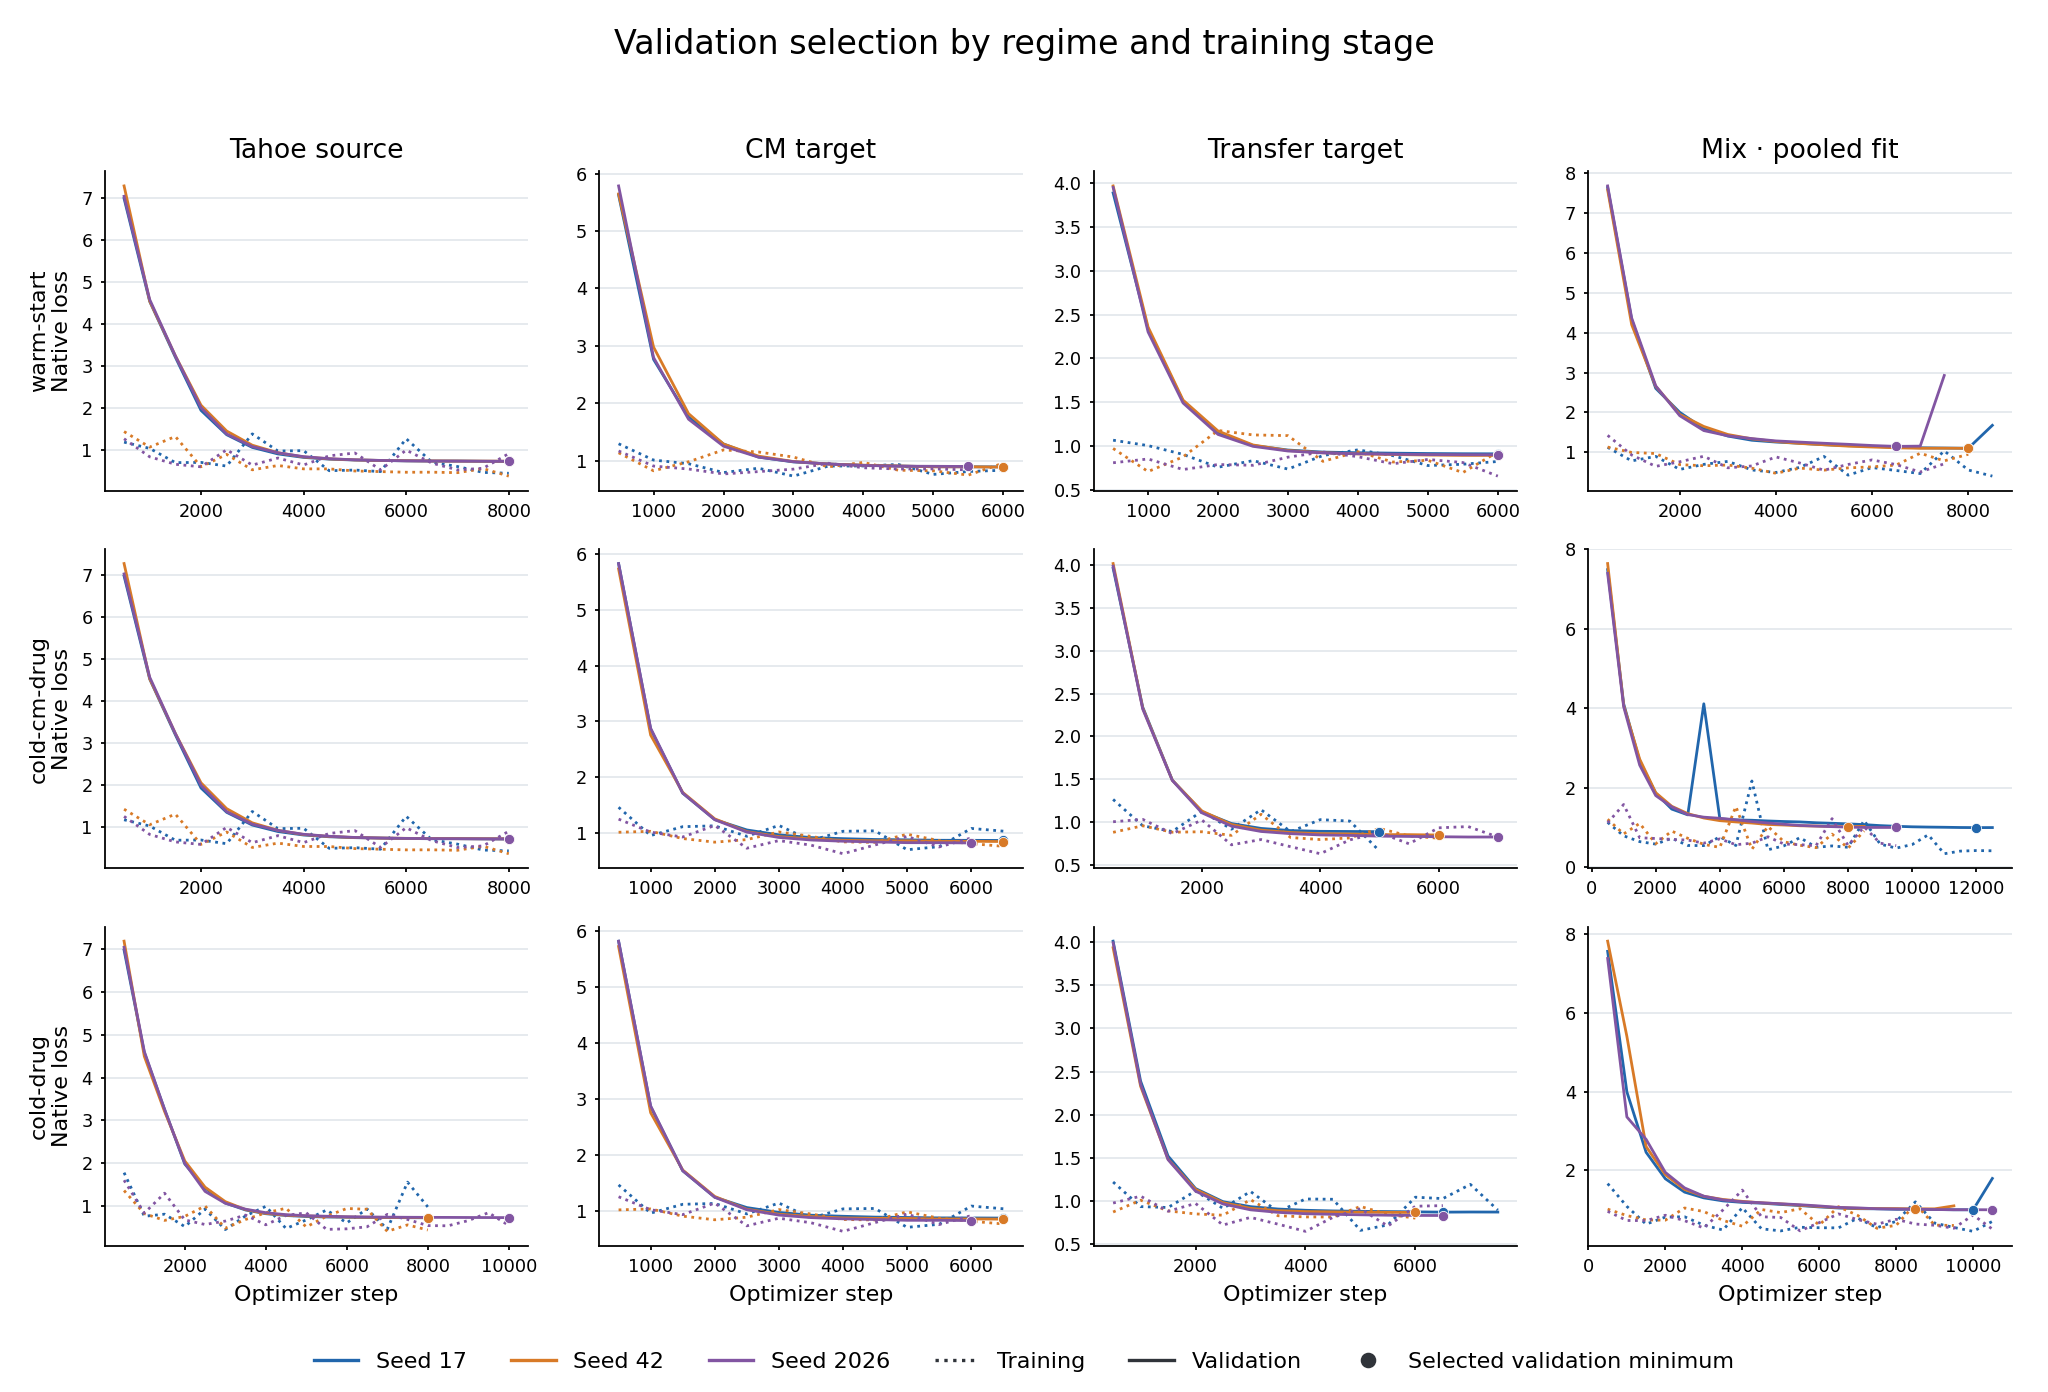
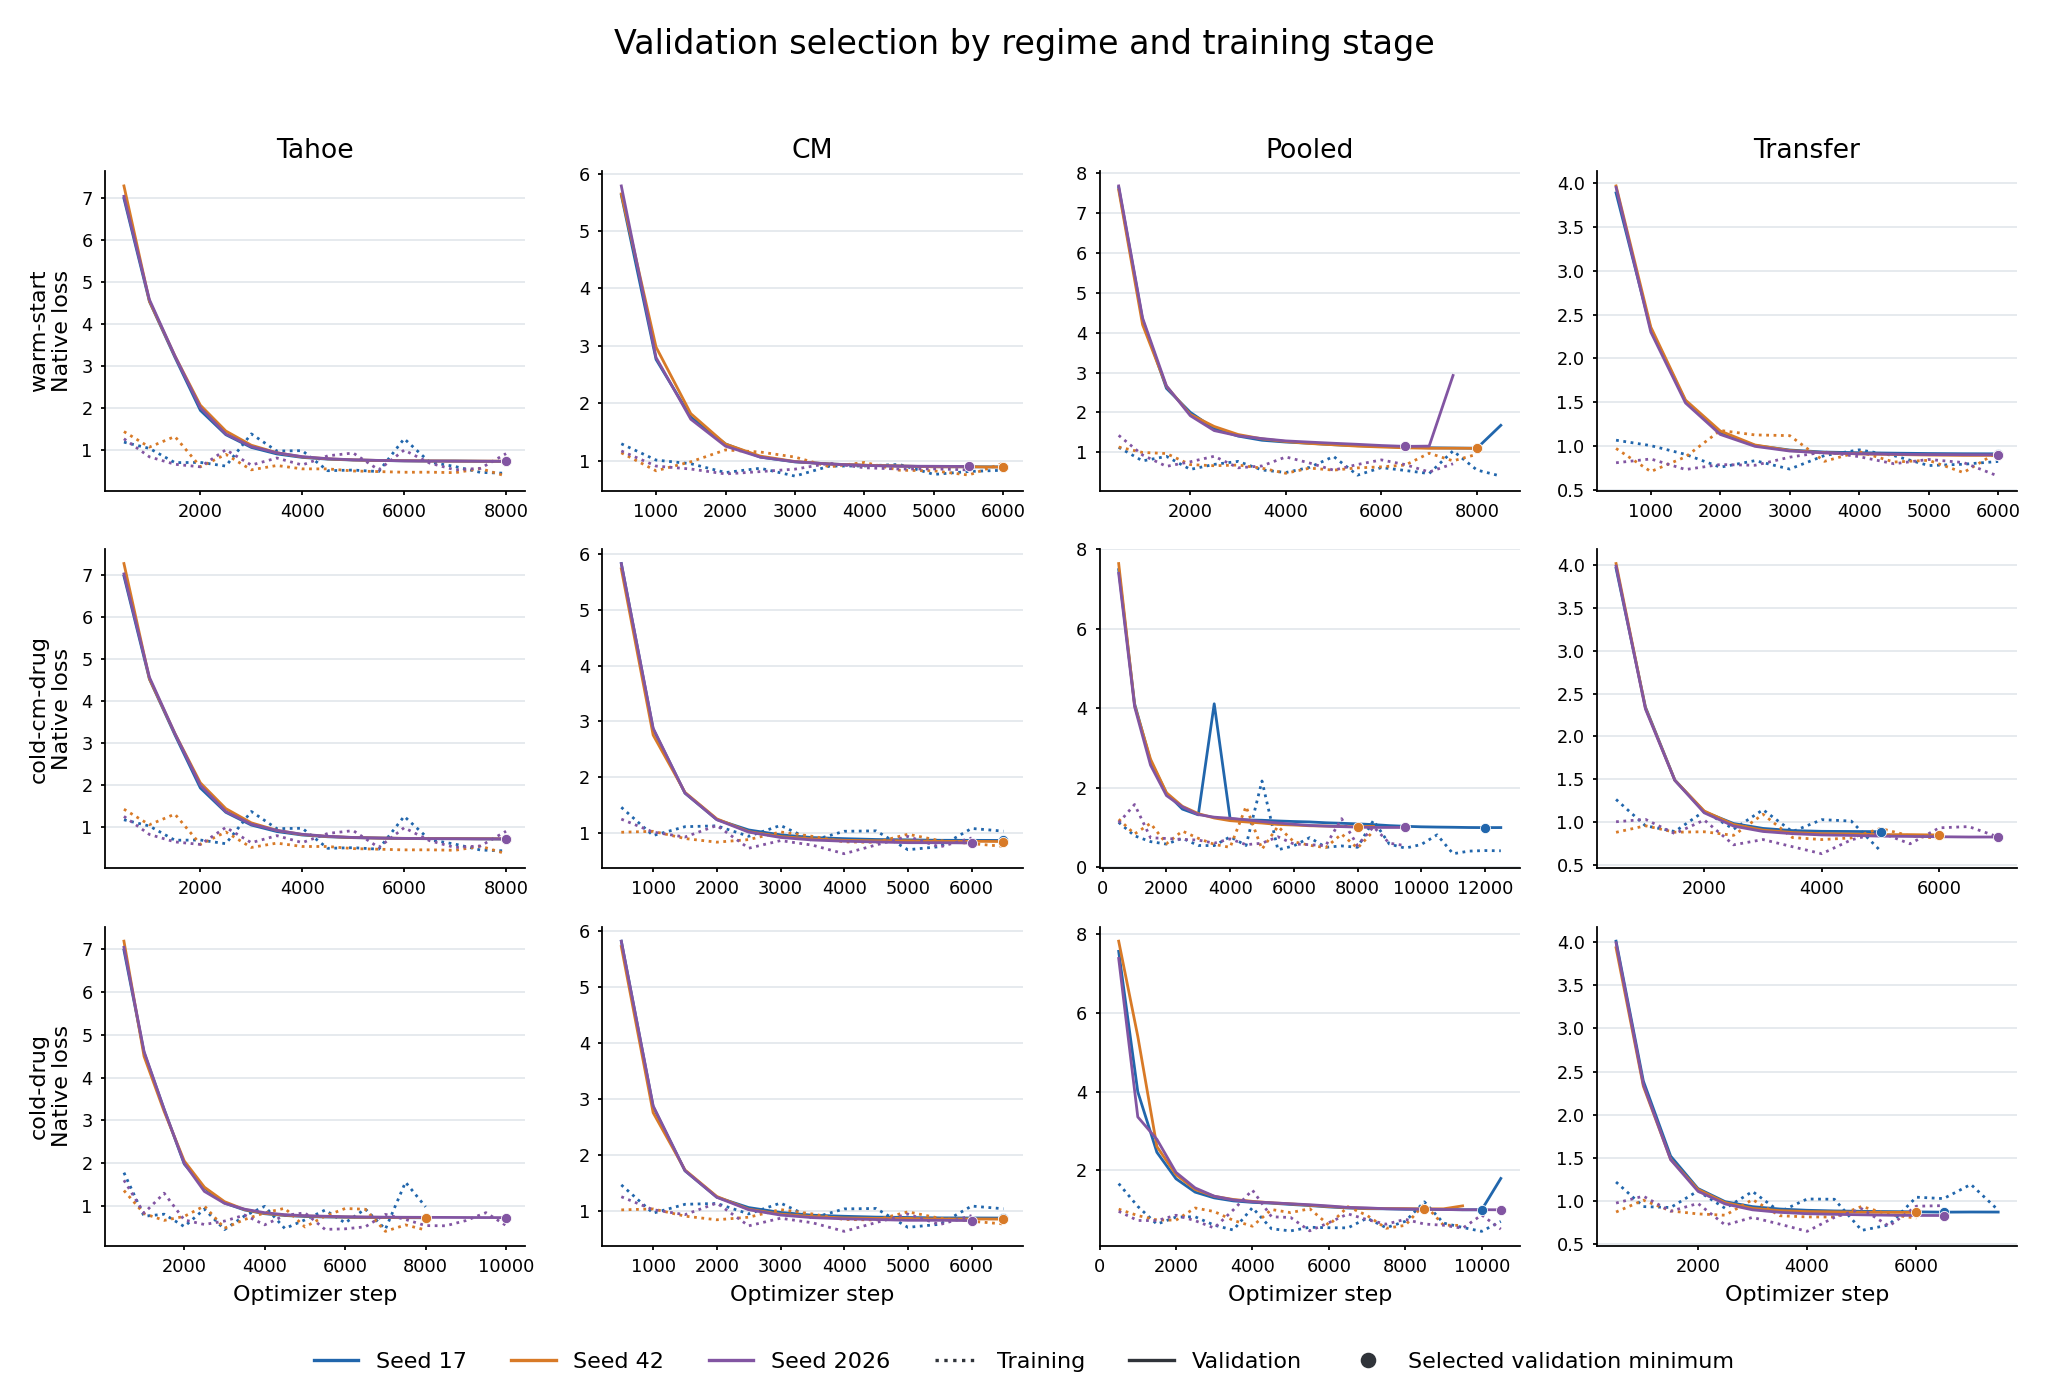
Update Stage 2 Step 05 figure labels and order

diff --git a/stage2/05_pdiff_transfer/execution/script/publish.py b/stage2/05_pdiff_transfer/execution/script/publish.py
@@ -22,7 +22,6 @@ from transfer import RECORD, REPO
 SHARED = 'cold-shared'
 SCORE_SCHEMA = 'step05-scores-v1'
 PUBLICATION_SCHEMA = 'step05-publication-v1'
-MODELS = (*matrix.ARMS, *REFERENCES)
 COPY_FILES = ('per_run.csv', 'learning_points.json', 'pr_points.json', 'undefined_reasons.json')
 COMPLETE = ('completed', 'reused')
 
@@ -395,7 +394,22 @@ def paired_ap100(runs, regime):
             'mean_difference': sum(differences) / len(SEEDS) if len(differences) == len(SEEDS) else None}
 
 
-COLORS = dict(zip(MODELS, ('#2166ac', '#d87a27', '#24804b', '#8255a2', '#8a8e95', '#4d5258')))
+FIGURE_LABELS = {
+    'no_change': 'no-change',
+    'delta_mean': 'delta-mean',
+    'Tahoe': 'Tahoe',
+    'CM': 'CM',
+    'Mix': 'Pooled',
+    'Transfer': 'Transfer',
+}
+COLORS = {
+    'no_change': '#8a8e95',
+    'delta_mean': '#4d5258',
+    'Tahoe': '#d87a27',
+    'CM': '#2166ac',
+    'Mix': '#8255a2',
+    'Transfer': '#24804b',
+}
 SEED_COLORS = dict(zip(SEEDS, ('#2166ac', '#d87a27', '#8255a2')))
 METRIC_TITLES = ('Positive AP@100', 'Negative AP@100', 'Positive recall at P80',
                  'Negative recall at P80', 'PCC', 'Spearman', 'RMSE', 'R²')
@@ -417,13 +431,13 @@ def save_figure(plt, figure, path):
 def draw_learning(plt, data, path):
     figure, axes = plt.subplots(3, 4, figsize=(12.8, 8.7))
     figure.suptitle('Validation selection by regime and training stage', fontsize=15)
-    titles = ('Tahoe source', 'CM target', 'Transfer target', 'Mix · pooled fit')
+    learned_arms = [arm for arm in FIGURE_LABELS if arm in matrix.ARMS]
     for index, regime in enumerate(matrix.REGIMES):
-        for column, (title, arm) in enumerate(zip(titles, ('Tahoe', 'CM', 'Transfer', 'Mix'))):
+        for column, arm in enumerate(learned_arms):
             axis = axes[index, column]
             figure_axis(axis)
             if not index:
-                axis.set_title(title)
+                axis.set_title(FIGURE_LABELS[arm])
             if not column:
                 axis.set_ylabel(f'{regime}\nNative loss')
             if index == len(matrix.REGIMES) - 1:
@@ -464,9 +478,9 @@ def draw_metrics(plt, runs, path):
                 axis.set_title(title, fontsize=10)
             if not column:
                 axis.set_ylabel(regime)
-            axis.set_xlim(-0.5, len(MODELS) - 0.5)
-            axis.set_xticks(range(len(MODELS)), [])
-            for position, arm in enumerate(MODELS):
+            axis.set_xlim(-0.5, len(FIGURE_LABELS) - 0.5)
+            axis.set_xticks(range(len(FIGURE_LABELS)), [])
+            for position, arm in enumerate(FIGURE_LABELS):
                 values = [row[metric] for row in selected if row['model'] == arm and row[metric] is not None]
                 if values:
                     axis.scatter(position + np.linspace(-0.12, 0.12, len(values)) if len(values) > 1 else [position],
@@ -474,8 +488,9 @@ def draw_metrics(plt, runs, path):
                     axis.hlines(np.mean(values), position - 0.27, position + 0.27,
                                 color=COLORS[arm], lw=1.7)
     from matplotlib.lines import Line2D
-    handles = [Line2D([], [], marker='o', color=color, label=arm) for arm, color in COLORS.items()]
-    figure.legend(handles=handles, loc='lower center', ncol=len(MODELS), frameon=False)
+    handles = [Line2D([], [], marker='o', color=COLORS[arm], label=label)
+               for arm, label in FIGURE_LABELS.items()]
+    figure.legend(handles=handles, loc='lower center', ncol=len(handles), frameon=False)
     save_figure(plt, figure, path)
 
 
@@ -493,7 +508,7 @@ def draw_pr(plt, record, path):
                 axis.set_ylabel(f'{regime}\nPrecision')
             if index == len(matrix.REGIMES) - 1:
                 axis.set_xlabel('Recall')
-            for arm in MODELS:
+            for arm in FIGURE_LABELS:
                 curves = [row['precision'][direction] for row in selected
                           if row['model'] == arm and row['precision'][direction] is not None]
                 if len(curves) > 1:
@@ -503,9 +518,9 @@ def draw_pr(plt, record, path):
                     axis.plot(record['recall'], np.mean(curves, axis=0), color=COLORS[arm], lw=1.5,
                               ls='--' if arm in REFERENCES else '-')
     from matplotlib.lines import Line2D
-    handles = [Line2D([], [], color=color, label=arm, ls='--' if arm in REFERENCES else '-')
-               for arm, color in COLORS.items()]
-    figure.legend(handles=handles, loc='lower center', ncol=len(MODELS), frameon=False)
+    handles = [Line2D([], [], color=COLORS[arm], label=label, ls='--' if arm in REFERENCES else '-')
+               for arm, label in FIGURE_LABELS.items()]
+    figure.legend(handles=handles, loc='lower center', ncol=len(handles), frameon=False)
     save_figure(plt, figure, path)
 
 
